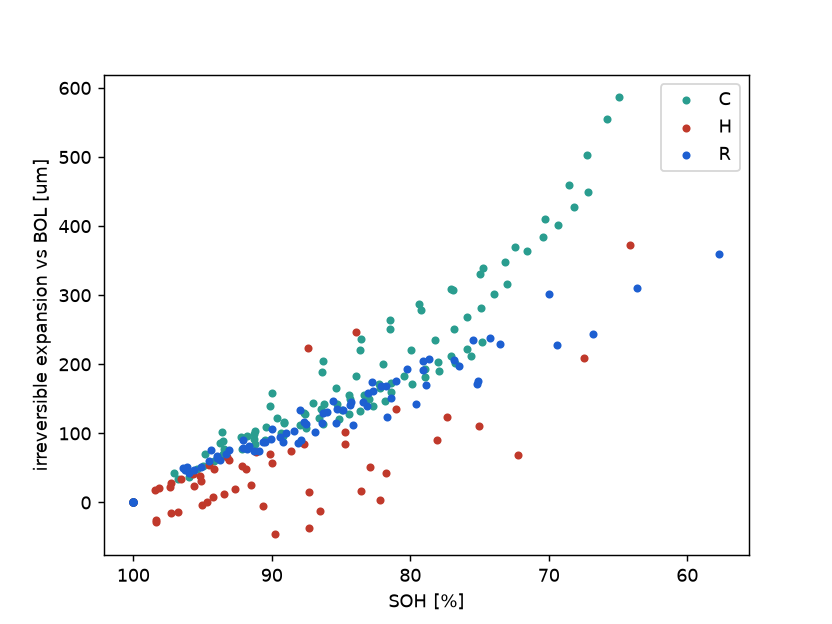
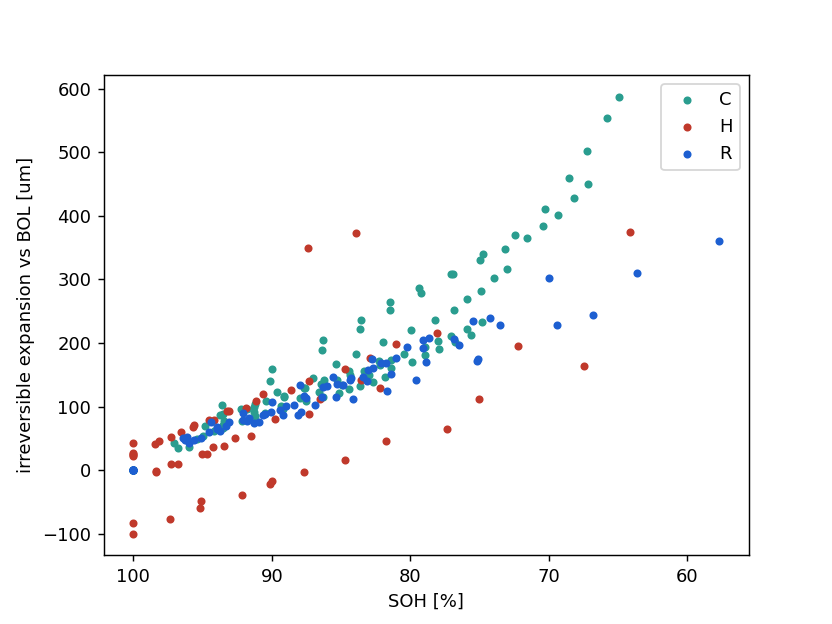
step5: 45 °C 셀 x_dis 버그 수정, x_irr 기준점을 BOL로 명시
- 원인: 100–400 mA 샘플 전체의 처음 20개를 쓰면서 1C 충전 뒤 CV 꼬리가 bottom 자리에 top 두께로 들어감 (45 °C 7셀, 42행)
- bottom 정의: 가장 긴 100–400 mA 연속 구간(C/20 충전)의 시작 20샘플 중앙값 (완전 방전 상태)
- top 정의: 같은 구간의 끝 20샘플 중앙값 (C/20 충전 끝). D2_expansion.csv의 X_top은 충전 후 휴지 400–580 s 중앙값이라 다름
- x_irr 기준점: 셀의 첫 행 -> BOL(ah = 0). c20.csv에 45 °C 셀의 ah = 0 행이 없어 병합 전에 BOL을 잡음
- 25 °C·−5 °C 셀: x_dis, x_irr, soh 수정 전후 동일 (184행), x_rev는 11행에서 최대 0.05 um 차이

diff --git a/analysis/step5_expansion_TODO.py b/analysis/step5_expansion_TODO.py
@@ -3,9 +3,22 @@
 기각 조건(미리 정함): SOH를 맞췄을 때 저온 셀의 비가역 팽창이 다른 그룹과 차이가 없다.
 입력: ../data/XX/OCV_wExpansion.csv (Expansion [mu m]), out/c20.csv (step1 결과)
 출력: out/expansion.csv, out/expansion.png
+
+변경 이력: 2026-11-19 (C) 45 °C 셀 x_dis 버그 수정. 100–400 mA 샘플 전체 -> 가장 긴 연속 구간(C/20 충전)만 사용.
+           1C 충전 CV 꼬리가 bottom 자리에 top 두께로 들어가던 문제. x_irr 기준점을 첫 행 -> BOL(ah = 0)로 명시.
+           BOL은 c20.csv와 병합하기 전에 잡는다(45 °C 셀은 c20.csv에 ah = 0 행이 없어 병합 후에는 BOL이 사라짐).
 """
 import numpy as np, pandas as pd, matplotlib.pyplot as plt
 from common import *
+
+
+def longest_run(mask):
+    """True가 연속된 가장 긴 구간의 위치 인덱스 (CV 꼬리 같은 짧은 구간 제외)"""
+    idx = np.flatnonzero(mask)
+    if not len(idx): return idx
+    runs = np.split(idx, np.flatnonzero(np.diff(idx) > 1) + 1)
+    return max(runs, key=len)
+
 
 C = pd.read_csv(OUT/"c20.csv")
 C["soh"] = C.groupby("cell").cap.transform(lambda s: s / s.iloc[0])
@@ -14,15 +27,18 @@ for cell in range(1, 22):
     d = pd.read_csv(DATA / f"{cell:02d}" / "OCV_wExpansion.csv")
     d.columns = ["t", "I", "V", "x", "T", "Q", "cap", "cyc", "ah"]
     for ah, v in d.groupby("ah"):
-        ch = v[(v.I > 100) & (v.I < 400)]
-        if len(ch) < 500: continue
-        # 완전 방전 상태(C/20 충전 시작 직전)의 두께 = 비가역 팽창의 기준점
-        x0 = ch.x.iloc[:20].median()
-        # 완전 충전 상태의 두께 - 방전 상태 두께 = 가역 팽창
-        x1 = ch.x.iloc[-20:].median()
+        v = v.sort_values("t")
+        run = longest_run(((v.I > 100) & (v.I < 400)).to_numpy())   # 가장 긴 연속 구간 = C/20 충전
+        if len(run) < 500: continue
+        ch = v.iloc[run]
+        x0 = ch.x.iloc[:20].median()    # bottom: C/20 충전 시작 (완전 방전 상태)
+        x1 = ch.x.iloc[-20:].median()   # top: C/20 충전 끝 (완전 충전 상태)
         rows.append(dict(cell=cell, ah=ah, temp=TEMP[cell], x_dis=x0, x_rev=x1 - x0))
-X = pd.DataFrame(rows).merge(C[["cell", "ah", "soh"]], on=["cell", "ah"])
-X["x_irr"] = X.x_dis - X.groupby("cell").x_dis.transform("first")   # BOL 대비 비가역 팽창 [um]
+R = pd.DataFrame(rows)
+bol = R[R.ah == 0].set_index("cell").x_dis                     # 기준점을 BOL(ah = 0)로 명시, 병합 전에 잡음
+X = R.merge(C[["cell", "ah", "soh"]], on=["cell", "ah"]).sort_values(["cell", "ah"])
+X["x_irr"] = X.x_dis - X.cell.map(bol)                         # BOL 대비 비가역 팽창 [um], BOL이 없으면 NaN
+if X.x_irr.isna().any(): print("[경고] BOL check-up 없는 셀:", sorted(X[X.x_irr.isna()].cell.unique()))
 X.to_csv(OUT/"expansion.csv", index=False)
 
 # ---- TODO 1: 그림 확인 ----------------------------------------------------
